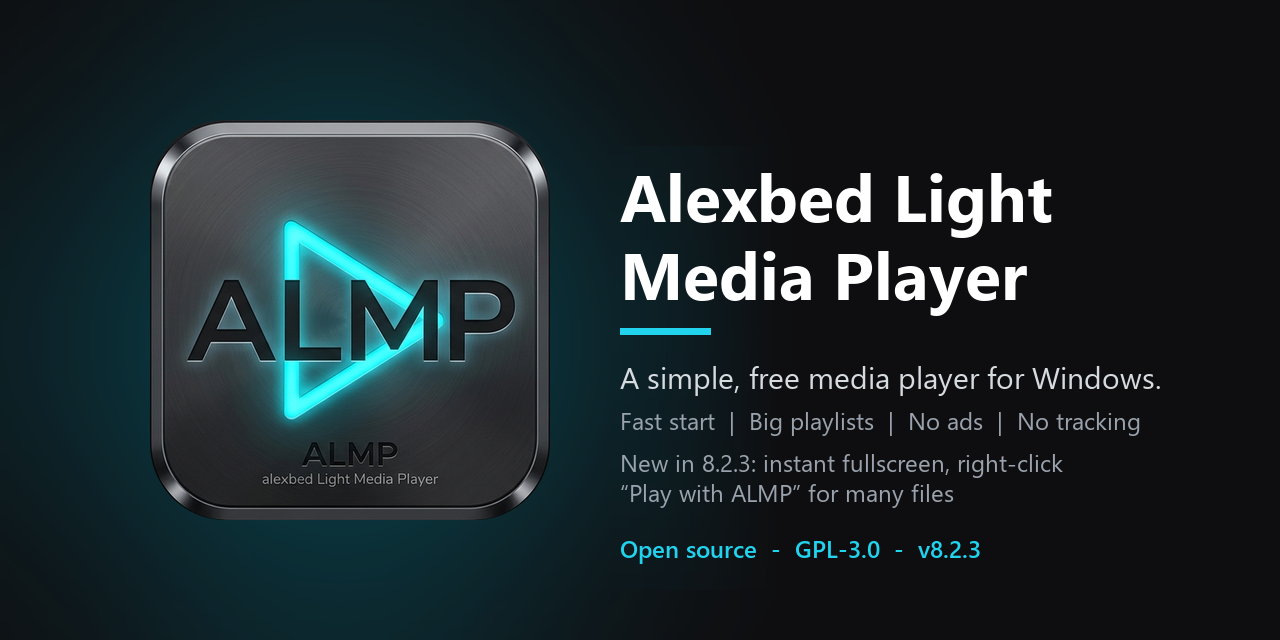
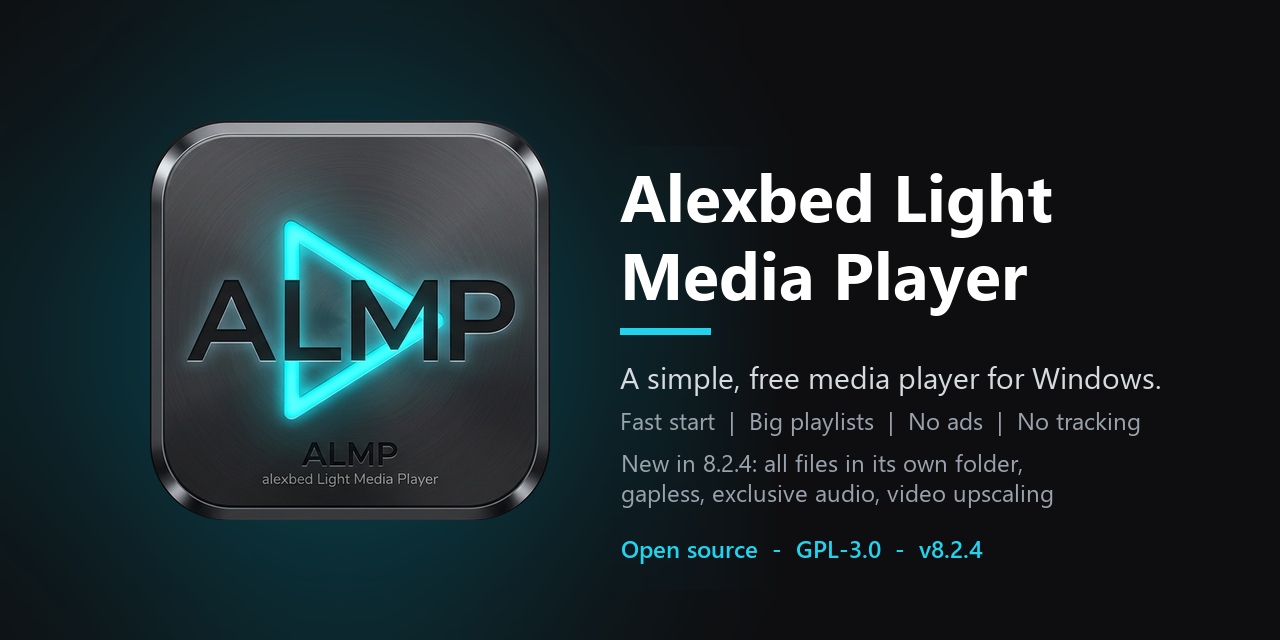
Release 8.2.4: version, notes, docs, screenshots, social card
- Version 8.2.4 in almp/__init__.py, README.md/.txt, SIGNING.md, Scoop and
  winget drafts (Scoop note now names the Data folder).
- docs/release-notes/v8.2.4.md with SHA-256 of ALMP-v8.2.4-Portable.zip,
  measurements and what we did not test (no listening/DAC test).
- README.txt (shipped in the zip): new features, Ctrl+S, Data folder, log.
- README.md: New in 8.2.4, Ctrl+S shortcut, 8.2.4 screenshot.
- Manual test list: fullscreen music controls, About engine line.
- New screenshots (window, fullscreen music, settings) and social card.

diff --git a/almp/__init__.py b/almp/__init__.py
@@ -30,7 +30,7 @@ Layout (pure logic first, so it can be tested without a screen):
   theme.py, widgets.py, dialogs.py, ui.py, app.py   the window
 """
 
-__version__ = "8.2.3"
+__version__ = "8.2.4"
 
 APP_TITLE = "Alexbed Light Media Player"
 APP_SHORT = "ALMP"

diff --git a/docs/release-notes/v8.2.4.md b/docs/release-notes/v8.2.4.md
@@ -1,0 +1,107 @@
+# ALMP v8.2.4
+
+**Download:** `ALMP-v8.2.4-Portable.zip`
+**SHA-256:** FD9C0FF11F0102C6F9315EDB4BCC4E5BF53CA27BC9A24BB0119F29C93E6D1F78
+
+ALMP now keeps everything in its own folder, and adds a few things for music collections and films.
+It still starts clean, keeps big playlists instant, and never connects to the internet.
+
+![ALMP 8.2.4 playing music: All / Video / Audio filter and the format of the playing track](https://raw.githubusercontent.com/alexbedca/Alexbed-Light-Media-Player/main/images/screenshot-v8.2.4-window.png)
+
+![ALMP 8.2.4 in fullscreen with music: the controls appear when the mouse moves](https://raw.githubusercontent.com/alexbedca/Alexbed-Light-Media-Player/main/images/screenshot-v8.2.4-fullscreen.png)
+
+![ALMP 8.2.4 Settings: subtitles, video upscaling, music, privacy and files](https://raw.githubusercontent.com/alexbedca/Alexbed-Light-Media-Player/main/images/screenshot-v8.2.4-settings.png)
+
+## New
+- **ALMP leaves nothing on the PC.** Settings, saved places and the log now live in a `Data` folder next
+  to `ALMP.exe`. Deleting the ALMP folder removes everything. If that folder cannot be written to
+  (Program Files, a read-only USB stick), ALMP uses `%APPDATA%\ALMP` and `%LOCALAPPDATA%\ALMP` as before,
+  and Settings > *Privacy and files* says so.
+  - **First start after updating:** `settings.json`, `positions.json` and `startup_target.txt` are copied
+    from `%APPDATA%\ALMP` into `Data`, each copy is compared byte for byte, and only then are ALMP's own
+    old files deleted by name (the same list as `Remove-ALMP-Defaults.bat`). The old folders are removed
+    only if nothing else is in them. **Note:** an older ALMP (8.2.3 or earlier) started after that finds no
+    settings and starts with its defaults.
+  - The only things ALMP can still put outside its folder are the Windows entries you turn on yourself:
+    Default apps / "Open with", the right-click menu entries, and the Run at Startup shortcut.
+- **Small log, cleared on close.** At most 256 KB plus one older copy. Settings > *Privacy and files* >
+  Log: *Clear it when ALMP closes* (default; kept if something went wrong during that run), *Keep the
+  last run*, or *Off*.
+- **Show subtitles (Settings > Subtitles).** Remembered between runs; **off by default**, also for people
+  updating (subtitles are hidden until you turn them on once). The subtitles menu (right-click the video)
+  uses the same setting: *Off* there unticks the Settings box, picking a subtitle turns it on. Loading a
+  subtitle file turns it on.
+- **All / Video / Audio** buttons under the playlist search: by file type (extension) only, no disk reads,
+  together with the search.
+- **Save playlist: Ctrl+S.** With a search or the Video/Audio filter on, only the shown items are saved
+  (the dialog title says so).
+- **Format of the playing track** next to the time, e.g. *FLAC - 24-bit / 96 kHz* (read from that one
+  file only; nothing is scanned for the playlist).
+- **Gapless playback** (Settings > Music, off by default): ALMP tells mpv which track comes next, so mpv
+  reads it ahead and goes on without a gap.
+- **Exclusive audio** (Settings > Music, off by default, remembered): WASAPI exclusive mode, bit-perfect,
+  for external DACs and AV receivers. Other programs and Windows sounds are silent while ALMP plays.
+- **Video upscaling** (Settings > Playback): *Standard* (as before) / *Sharp* (spline36) / *High quality*
+  (ewa_lanczossharp + correct downscaling, sigmoid upscaling, debanding). mpv's own built-in scalers only;
+  nothing is downloaded or bundled. Changes apply at once.
+- **Help > About** shows the Releases page address with a **Copy link** button (copies the text only;
+  ALMP opens nothing and checks nothing; there is no update check).
+
+## Fixed
+- **Fullscreen with music: the controls did not appear when the mouse moved** (only F worked). The album
+  art covers the video area and did not pass mouse moves on. It now does: the controls show on mouse
+  move and hide after 3 seconds, the same as for video. Checked with real mouse moves on
+  FLAC -> video -> FLAC in fullscreen.
+- **About ALMP showed no "Playback engine" line** (mpv and FFmpeg versions). It does again.
+
+## Checked, no change needed
+- **Fullscreen with a mixed playlist** (video -> FLAC -> video): ALMP stays fullscreen, shows the album
+  art (or the ALMP logo on dark) for music, and the next video plays fullscreen again.
+
+## Measured
+Windows 11 Pro, 4 logical cores, 32 GB RAM, GTX 960, 1920x1080 screen.
+
+| | v8.2.3 | v8.2.4 |
+|---|---|---|
+| 100,000-file playlist: first track / whole list | 0.347 s / 1.71 s | 0.347 s / 1.78 s |
+| Search "e" in 100,000 files | 13.0 ms | 13.2 ms |
+| Sort 100,000 by name (background) | 1.30 s | 1.25 s |
+| Window stall p99 during the scan | 22.7 ms | 23.5 ms |
+| New All/Video/Audio filter, 25,000 / 100,000 files | - | 3.5-3.7 ms / 7-9 ms (first use 15.6 / 42 ms) |
+| Built ALMP.exe: window shown / video playing | 0.7 to 1.0 s / 1.5 to 2.2 s | 0.7 s / 1.6-1.7 s |
+
+The playlist numbers are within normal run-to-run noise. One small slowdown: *Reverse the order* on
+25,000 items went from 13.6 to 17.3 ms. The very first start, which also moves the old settings into
+`Data`, took 1.3 s / 2.4 s.
+
+**Video upscaling**, fullscreen on the 1080p screen, 10 s per level: mpv reported **0** dropped or delayed
+frames at every level. GPU = average 3D-engine use of ALMP (Windows counters, noisy):
+
+| Video | Standard | Sharp | High quality |
+|---|---|---|---|
+| 360p30 (hardware decoding) | 12% | 18% | 43% |
+| 720p25 (software decoding) | 19% | 23% | 12% |
+
+High quality roughly triples GPU work on low-resolution video: smooth on this GTX 960, may stutter on weak
+laptop graphics (the Settings text says so). The default stays Standard. The 720p row looks odd because
+that clip used software decoding and the counter only sees the GPU part; trust the 360p row more.
+
+## What we did not test
+- **Gapless and exclusive audio** were checked with the real mpv (the next track started with no reload by
+  ALMP; exclusive mode ran on WASAPI), but we did not do a listening test for gaps or try an external DAC
+  or AV receiver ourselves.
+- Exclusive mode while another program already holds the sound device exclusively.
+- The Data folder logic on Linux by hand (it is shared code and covered by tests).
+
+## Checked
+- ruff and the test suite pass (306 tests, 59 new for 8.2.4).
+- The built ALMP.exe: `Data` appears next to it, old 8.2.3 settings are moved in (volume kept), the old
+  folders are removed, and after a normal close only `Data\settings.json` is left.
+- Alexander's own test of the 8.2.4 build on his PC.
+
+## For developers
+- New `almp/datafolder.py` (migration), `paths.py` chooses the Data folder (`ALMP_DATA_DIR` overrides it),
+  `logsetup.py` (size cap, clear/keep/off).
+- python-mpv: `player["x"]` reads and sets only mpv *options*; runtime properties (`audio-params`,
+  `mpv-version`, ...) must be read as attributes (`player.audio_params`).
+- `settings.py`: `show_subtitles`, `log_mode`, `gapless`, `audio_exclusive`, `upscaling`.

diff --git a/README.md b/README.md
@@ -7,6 +7,8 @@ and no accounts, ads or tracking.
 
 ![ALMP 8.2 start screen](images/screenshot-v8.2-welcome.png)
 
+![ALMP 8.2.4 playing music: All / Video / Audio filter and the format of the playing track](images/screenshot-v8.2.4-window.png)
+
 ![ALMP 8.2 playing a video: quick-access buttons, Settings (gear) and Loop](images/screenshot-v8.2-playing.png)
 
 *High-contrast theme on:*
@@ -15,10 +17,13 @@ and no accounts, ads or tracking.
 
 ![ALMP 8.2 start screen in fullscreen on a big screen or TV](images/screenshot-v8.2-fullscreen.png)
 
-**Version:** 8.2.3 &nbsp;|&nbsp; **Author:** Alexander Bediako &nbsp;|&nbsp; **Licence:** [GPL-3.0-or-later](LICENSE)
+**Version:** 8.2.4 &nbsp;|&nbsp; **Author:** Alexander Bediako &nbsp;|&nbsp; **Licence:** [GPL-3.0-or-later](LICENSE)
 
-**New in 8.2.3:** fullscreen opens at once (no more half-drawn control bar), a double-clicked video gets the whole window, a new setting plays every video in fullscreen, and "Play with ALMP" / "Add to ALMP playlist" in the right-click menu for many selected files.
-See the [release notes](docs/release-notes/v8.2.3.md).
+**New in 8.2.4:** ALMP keeps all its files in a `Data` folder next to `ALMP.exe` (delete the folder and it is gone),
+a small log that is cleared on close, *Show subtitles* (off until you turn it on), **All / Video / Audio** filter,
+`Ctrl+S` saves only what is shown, the format of the playing track (e.g. *FLAC - 24-bit / 96 kHz*), optional gapless
+playback and exclusive audio, video upscaling (Standard / Sharp / High quality), and a fix for the fullscreen controls
+not appearing while music plays. See the [release notes](docs/release-notes/v8.2.4.md).
 
 ALMP is free and will stay free. It is built to help people who need an easy, no-cost player,
 and it is not a commercial product.
@@ -97,8 +102,8 @@ and it is not a commercial product.
 > Only download ALMP from this repository's [Releases](../../releases) page. Then click **More info** and **Run anyway**.
 >
 > **Check your download first (recommended).** Each release page lists the zip's SHA-256 checksum. In the Downloads folder,
-> open PowerShell and run `Get-FileHash .\ALMP-v8.2.3-Portable.zip -Algorithm SHA256`
-> (or in Command Prompt: `certutil -hashfile ALMP-v8.2.3-Portable.zip SHA256`).
+> open PowerShell and run `Get-FileHash .\ALMP-v8.2.4-Portable.zip -Algorithm SHA256`
+> (or in Command Prompt: `certutil -hashfile ALMP-v8.2.4-Portable.zip SHA256`).
 > The long code it prints must match the release page exactly (capital or small letters do not matter). If it does not match,
 > do not run the file. See [SIGNING.md](SIGNING.md) for why ALMP is not signed yet.
 
@@ -133,6 +138,7 @@ and asks whether to delete ALMP's settings and log files too. Then delete the AL
 | L | Loop: Off, One (this track), All (whole playlist) |
 | Ctrl+F | Search the playlist (Down goes to the list, Esc clears) |
 | Ctrl+O / Ctrl+Shift+O | Add files / add a folder |
+| Ctrl+S | Save the playlist (only the shown items when a search or filter is on) |
 | Ctrl+, | Settings |
 | Enter | Play the selected playlist item |
 | Delete / Shift+Delete | Remove from the list / delete the file (asks first) |

diff --git a/SIGNING.md b/SIGNING.md
@@ -2,7 +2,7 @@
 
 ## Status (November 2026)
 
-**ALMP releases are not code-signed.** This includes v8.0.0, v8.2.0, v8.2.1, v8.2.2 and v8.2.3.
+**ALMP releases are not code-signed.** This includes v8.0.0, v8.2.0, v8.2.1, v8.2.2, v8.2.3 and v8.2.4.
 
 ALMP applied to the [SignPath Foundation](https://signpath.org) free code-signing programme for
 open-source projects. The application was **declined for now**, because the project does not yet
@@ -21,10 +21,10 @@ listed below.
   In the folder with the zip, open PowerShell and run:
 
   ```powershell
-  Get-FileHash .\ALMP-v8.2.3-Portable.zip -Algorithm SHA256
+  Get-FileHash .\ALMP-v8.2.4-Portable.zip -Algorithm SHA256
   ```
 
-  or, in Command Prompt: `certutil -hashfile ALMP-v8.2.3-Portable.zip SHA256`.
+  or, in Command Prompt: `certutil -hashfile ALMP-v8.2.4-Portable.zip SHA256`.
   The long code must be **exactly** the same as on the release page (capital or small letters do not
   matter). If it is different, delete the file and do not run it.
 - Builds made by GitHub Actions also contain `BUILD-INFO.txt`, which names the source commit and the

diff --git a/docs/MANUAL-TEST-v8.1.md b/docs/MANUAL-TEST-v8.1.md
@@ -159,6 +159,8 @@ Legend: **[ ]** to do. "Expected" says what must happen. If something else happe
 **Fullscreen with music and videos mixed**
 - [ ] Fullscreen on a video, then the next track is music: ALMP stays fullscreen and shows the album art (or
       the ALMP logo on dark); the next video plays fullscreen again.
+- [ ] In fullscreen while MUSIC plays: moving the mouse shows the control bar (and the drawer if open), and
+      it hides again after 3 s, the same as for a video (8.2.4 test report: only F worked).
 
 **Music**
 - [ ] A FLAC track shows e.g. "FLAC - 24-bit / 96 kHz" (or "FLAC - 16-bit / 44.1 kHz") next to the time;
@@ -176,3 +178,4 @@ Legend: **[ ]** to do. "Expected" says what must happen. If something else happe
 **About**
 - [ ] Help > About shows "Newer versions: github.com/alexbedca/Alexbed-Light-Media-Player/releases" and
       **Copy link** puts that address on the clipboard; nothing opens and nothing connects.
+- [ ] About also shows the playback engine line ("Playback engine: mpv ..., FFmpeg ..."); it was empty before 8.2.4.
